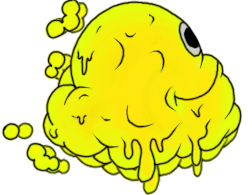
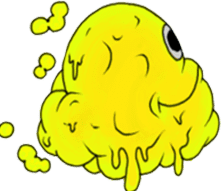
update animation and ennemies

diff --git a/classes/blobby.py b/classes/blobby.py
@@ -13,35 +13,30 @@ class Player:
         self.y = y
         self.rect = self.list_img_1[0].get_rect(x=x, y=y)
         self.speed = 250
+        self.anime_speed = 20
         self.current_sprite_player = 0 
         self.anim = False 
-        self.number_of_frame = 0
+        self.current_anime_sprite_player = 0
 
     # Fonction pour dessiner Blobby
     def draw(self, dt, level, anime_eat):
-        self.current_sprite_player += (dt / 0.15) 
-        if self.current_sprite_player > 5:
+        if anime_eat == False and self.current_anime_sprite_player >= (len(player_image_good_anim) - 1):
+            self.current_anime_sprite_player = 0
+        
+        if anime_eat == True and self.current_anime_sprite_player < (len(player_image_good_anim) - 1):
+            self.current_anime_sprite_player = (self.current_anime_sprite_player + dt * self.anime_speed)
+            if level >= 4:    
+                screen.blit(self.list_img_anim_1[int(self.current_anime_sprite_player)], (self.x, self.y))
+                self.rect = self.list_img_anim_1[int(self.current_anime_sprite_player)].get_rect(x=self.x, y=self.y)
+            else: 
+                screen.blit(self.list_img_anim_2[int(self.current_anime_sprite_player)], (self.x, self.y))
+                self.rect = self.list_img_anim_2[int(self.current_anime_sprite_player)].get_rect(x=self.x, y=self.y)
             self.current_sprite_player = 0
-            # print(anim, anime_eat)
-        if anime_eat == False and self.anim == False:
+        else: 
+            self.current_sprite_player = (self.current_sprite_player + dt * self.anime_speed) % len(player_image_good)
             if level >= 4:    
                 screen.blit(self.list_img_1[int(self.current_sprite_player)], (self.x, self.y))
                 self.rect = self.list_img_1[int(self.current_sprite_player)].get_rect(x=self.x, y=self.y)
             else: 
                 screen.blit(self.list_img_2[int(self.current_sprite_player)], (self.x, self.y))
                 self.rect = self.list_img_2[int(self.current_sprite_player)].get_rect(x=self.x, y=self.y)
-        else:
-            self.anim = True
-            if level >= 4:    
-                screen.blit(self.list_img_anim_1[int(self.current_sprite_player)], (self.x, self.y))
-                self.rect = self.list_img_anim_1[int(self.current_sprite_player)].get_rect(x=self.x, y=self.y)
-                self.number_of_frame+=1
-            else: 
-                screen.blit(self.list_img_anim_2[int(self.current_sprite_player)], (self.x, self.y))
-                self.rect = self.list_img_anim_2[int(self.current_sprite_player)].get_rect(x=self.x, y=self.y)
-                self.number_of_frame+=1
-            # print(self.number_of_frame)
-            
-            if self.number_of_frame >= len(self.list_img_anim_1):
-                # print("aaaaaaaaaaaaaaaaaaaaaaaaaaaaaaaaaaaaaaaaaaaaaaaaaaaaaaaaaaaaaaaaaaaaaaaaaaaaaaaaaaaaaaaaaaaaaaaaaaaaaaaaaaaaaaaaaaaaaaaaaaaa")
-                self.anim = False

diff --git a/classes/game.py b/classes/game.py
@@ -5,6 +5,7 @@ from classes.background import *
 from classes.object import *
 from config.config import *
 from pages.home import *
+from classes.ennemies import *
 
 
 
@@ -51,12 +52,13 @@ class Game:
       # print("fps:" + str(1/self.dt))
       self.prev_time = self.now
 
-      print(len(self.objectInMouse))
+
+      # config.screen
+      # Redessine les objets de la scene
       if len(self.objectInMouse) != 0:
         self.anime_eat = True
       else: 
         self.anime_eat = False
-      # config.screen
       redrawWindow(background, self.player, self.dt, self.player_level, self.anime_eat)
 
 
@@ -78,11 +80,20 @@ class Game:
             obstacles.append(Object(consumable_soda_img ,SCREEN_WIDTH, random.randrange(100000) % (SCREEN_HEIGHT - consumable_soda_height * 2), collide = False, good = True))
           elif obstacle == 2:
             obstacles.append(Object(consumable_carrot_img ,SCREEN_WIDTH, random.randrange(100000) % (SCREEN_HEIGHT - consumable_carrot_height * 2),  collide = False, good = False)) 
-          if obstacle == 3:
+          elif obstacle == 3:
             obstacles.append(Object(building_image_two ,SCREEN_WIDTH, 3*SCREEN_HEIGHT/11, collide = True, good = False))
+          elif obstacle == 4:
+            # print("sheeeeeeeeeeeesh")
+            ennemies.append(Ennemies(ennemie_image_bird, SCREEN_WIDTH, (SCREEN_HEIGHT / 8)))
 
       # Déplacement du background en fonction du delta time 
       background.update(self.dt)
+
+      # Dépplacement des ennemies 
+      for ennemie in ennemies: 
+        ennemie.posX -= self.dt * speed_level
+        if ennemie.posX < (- SCREEN_WIDTH) :
+          ennemies.pop(ennemies.index(ennemie))
 
       # Spawn des obstacles et des consommables
       for obstacle in obstacles:
@@ -105,11 +116,11 @@ class Game:
         # Teste des collisions en cas de recrachage de l'objet 
         for obstaclee in obstacles: 
           if pygame.Rect.colliderect(obstacle.rect, obstaclee.rect) == True and obstaclee != obstacle:
-            print("aaaa")
+            # print("aaaa")
             obstacles.pop(obstacles.index(obstaclee))
           for objects in objectsCaught:
             if pygame.Rect.colliderect(objects.rect, obstaclee.rect) == True and obstaclee.collide == False:
-              print("bbbb")
+              # print("bbbb")
               objectsCaught.pop(objectsCaught.index(objects))
               obstacles.pop(obstacles.index(obstaclee))
 

diff --git a/config/config.py b/config/config.py
@@ -129,3 +129,21 @@ consumable_carrot_ratio = consumable_carrot_width/consumable_carrot_height
 consumable_carrot_width = SCREEN_HEIGHT/8 * consumable_carrot_ratio
 consumable_carrot_height = SCREEN_HEIGHT/8
 consumable_carrot_img = pygame.transform.scale(consumable_carrot_img, (consumable_carrot_width, consumable_carrot_height))
+
+# Ennemies
+image_bird_type = pygame.image.load("img/ennemies/bird_1.png").convert_alpha()
+bird_width = image_bird_type.get_width()
+bird_height = image_bird_type.get_height()
+bird_ratio = bird_width/bird_height
+bird_width = SCREEN_HEIGHT/6 * bird_ratio
+bird_height = SCREEN_HEIGHT/6
+
+
+ennemie_image_bird = []
+ennemie_image_bird.append(pygame.transform.scale(pygame.image.load("img/ennemies/bird_1.png").convert_alpha(), (bird_width, bird_height)))
+ennemie_image_bird.append(pygame.transform.scale(pygame.image.load("img/ennemies/bird_2.png").convert_alpha(), (bird_width, bird_height)))
+ennemie_image_bird.append(pygame.transform.scale(pygame.image.load("img/ennemies/bird_3.png").convert_alpha(), (bird_width, bird_height)))
+ennemie_image_bird.append(pygame.transform.scale(pygame.image.load("img/ennemies/bird_4.png").convert_alpha(), (bird_width, bird_height)))
+ennemie_image_bird.append(pygame.transform.scale(pygame.image.load("img/ennemies/bird_5.png").convert_alpha(), (bird_width, bird_height)))
+ennemie_image_bird.append(pygame.transform.scale(pygame.image.load("img/ennemies/bird_6.png").convert_alpha(), (bird_width, bird_height)))
+ennemie_image_bird.append(pygame.transform.scale(pygame.image.load("img/ennemies/bird_7.png").convert_alpha(), (bird_width, bird_height)))

diff --git a/classes/ennemies.py b/classes/ennemies.py
@@ -1,0 +1,29 @@
+import pygame
+from config.config import *
+from config.screen import *
+
+
+# Class pour les ennemies
+class Ennemies:
+    # Initialisation des variables des Objects
+    def __init__(self, img, posX, posY, rectX=0, rectY=0):
+        self.img = img
+        self.posX = posX
+        self.posY = posY
+        if rectX == 0 :
+            rectX = self.posX
+        if rectY == 0 :
+            rectY = self.posY
+        self.rect = self.img[0].get_rect(x = rectX, y = rectY)  
+        self.current_ennemie_sprite = 0
+        self.anime_speed = 20
+
+    # Fonction qui dessine les objets
+    def draw(self, dt):
+        self.current_ennemie_sprite = (self.current_ennemie_sprite + dt * self.anime_speed) % len(ennemie_image_bird)
+        screen.blit(self.img[int(self.current_ennemie_sprite)], (self.posX, self.posY))
+        self.rect = self.img[int(self.current_ennemie_sprite)].get_rect(x = self.posX, y = self.posY)
+
+
+
+

diff --git a/config/screen.py b/config/screen.py
@@ -12,13 +12,16 @@ pygame.display.set_icon(icon)
 
 
 # Redessinage des éléments de la fenetre 
+ennemies = []
 obstacles = []
 objectsCaught = []
 def redrawWindow(bg, player, dt, level, eat):
-    print(eat)
     bg.drawBg()
     for objectCaught in objectsCaught:
         objectCaught.draw()
     for obstacle in obstacles:
         obstacle.draw()
+    for ennemie in ennemies:
+        print("here")
+        ennemie.draw(dt)
     player.draw(dt, level, eat)
